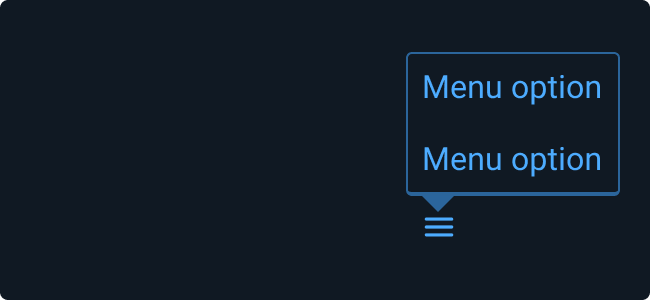
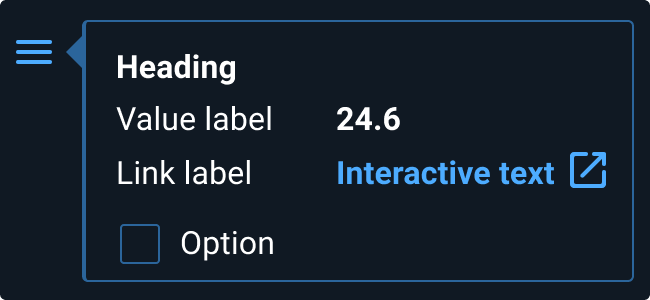
create pop-up-menu and pop-up distinct pages and update conent
* update pop up page with relevant content

* redirect shift

* typo

* and one more

* update split pages on hold

* merge main

* add compliance stuff - why isn't storybook showing

* add pop upp and menu to site

* typo fix

diff --git a/src/pages/components/pop-up-menu.md b/src/pages/components/pop-up-menu.md
@@ -1,41 +1,33 @@
 ---
-title: Pop Up
+title: Pop Up Menu
 layout: project:layouts/component-docs/component-docs-layout.astro
-storybook: components-pop-up--default-story
-height: 220px
-git: rux-pop-up
+storybook: components-pop-up-menu--default-story
+height: 250px
+git: rux-pop-up-menu
 ---
 
 # Pop Up Menu
 
 ::storybook-demo
+ 
+A Pop Up Menu provides users with an ordered list of available actions for a interactable item, contained within a Pop Up container component.
 
-A Pop Up Menu provides users with a quick way to access common actions for a highlighted item.
+## Appearance and Behavior
 
-## Rules of Thumb
+While rules governing the Pop Up Menu appearance and behavior generally mirror that of the generic Pop Up component, the width of its container will automatically adjust based on the width of the text content, which may be comprised of anything from a single menu item to a list of multiple items (up to a limit of 25 items).
+
+## Rules of Thumb for Pop Up Menus
 
 - Select menu item names that are accurate and informative allowing user to predict the result of choosing an item.
 - Use separators to indicate groups of related items.
 - Use an ellipsis (…) to indicate to users that further action is required to complete the command. The ellipsis character means that a Dialog Box or a separate window will open allowing users to make additional choices or supply additional information to complete the action.
 - If you use more than one word in a menu item name, be sure to use sentence case capitalization.
 - Choose menu names that are short and precise. Do not use an ellipsis to truncate overflow text as this indicates that further action or another dialog or window is required before the action takes place.
-- Avoid combining actions and attributes in the same group. Users tend to view choosing an action differently from choosing an attribute.
+- Avoid combining actions and attributes in the same group. Users tend to view choosing an action (e.g. “Delete item”) differently from choosing an attribute (e.g. “Rating”).
 
 ## Examples
-
 :::two-col
-![Do: Position Pop Up Menus to avoid obscuring vital screen elements like Classification Banners](/img/components/popup-do-1.png "Do: Position Pop Up Menus to avoid obscuring vital screen elements like Classification Banners")
-
-![Don’t: Cover vital screen elements like Classification Markings](/img/components/popup-dont-1.png "Cover vital screen elements like Classification Markings")
-
-![Do: Position a Pop Up Menu so it stays within the edges of the frame](/img/components/popup-do-2.png "Position a Pop Up Menu so it stays within the edges of the frame")
-
-![Don’t: Position Pop Up Menu so it exceeds the limits of the frame](/img/components/popup-dont-2.png "Don’t: Position Pop Up Menu so it exceeds the limits of the frame")
-
-![Do: Originate Pop Up Menu from obvious, interactable triggers](/img/components/popup-do-3.png "Do: Originate Pop Up Menu from obvious, interactable triggers")
-
-![Don’t: Trigger Pop Up Menu from items that don’t appear to be interactable](/img/components/popup-dont-3.png "Don’t: Trigger Pop Up Menu from items that don’t appear to be interactable")
-
 ![Do: Use ellipses to indicate when further action will be required for that item](/img/components/popup-do-4.png "Do: Use ellipses to indicate when further action will be required for that item")
 
-![Don’t: Use long menu item names that cause the the text to wrap](/img/components/popup-dont-4.png "Don’t: Use long menu item names that cause the the text to wrap")
+![Don’t: Use long menu item names that cause the the text to wrap](/img/components/popup-dont-4.png "Don't: Use long menu item names that cause the the text to wrap")
+:::

diff --git a/src/pages/components/pop-up.md b/src/pages/components/pop-up.md
@@ -1,0 +1,47 @@
+---
+title: Pop Up
+layout: project:layouts/component-docs/component-docs-layout.astro
+storybook: components-pop-up--default-story
+height: 250px
+git: rux-pop-up
+---
+
+# Pop Up
+
+::storybook-demo
+
+Typically invoked upon clicking an identifiable interactive element, a Pop Up contains a curated set of common actions, display controls, rich data, or imagery associated with the interactive element.
+
+
+## Appearance and Behavior
+
+Usually hidden on load, a Pop Up is invoked by clicking an interactable element with a defined target area. To close a Pop Up, the user may click outside its bounds, click a dedicated close button, or select an option within.
+
+Anatomically, a Pop Up is comprised of a content container with an arrow protruding from its edge that always points at the item from which it was invoked. Depending on a variety of factors – such as the size of the Pop Up itself, the size of the display, and scrolled position of the window – the arrow’s location along the Pop Up’s edge is variable. The width of the Pop will be pre-defined and specific to its content.
+
+In terms of placement screen, the entire Pop Up must always be visible and never exceed the window frame. Furthermore, it must never obscure other screen items that require persistent visibility (such as Classification Banners or Application States).
+
+All interactable items (e.g. menu items, links, buttons, checkboxes) appearing within a Pop Up are displayed using the appropriate Astro color representing the unselected state. Color changes corresponding to hover, focus, and select actions all apply. Disabled items are indicated by reduced opacity.
+
+## Rules of Thumb
+
+- Avoid loading the container with too many interactions or data. 
+- Aim to provide the user with a quick, easy to operate mechanism for executing focused, contextual actions.
+- Keep explanatory text to a minimum. If more extensive instruction is required, consider providing a link to a dedicated help page. 
+- Use when you need to display information with formatting that a tooltip cannot provide. 
+
+## Examples
+
+:::two-col
+![Do: Position Pop Ups to avoid obscuring vital screen elements like classification banners](/img/components/popup-do-1.png "Do: Position Pop Ups to avoid obscuring vital screen elements like classification banners")
+
+![Don’t: Cover vital screen elements like classification markings](/img/components/popup-dont-1.png "Don't: Cover vital screen elements like classification markings")
+
+![Do: Position a Pop Up so it stays within the edges of the frame](/img/components/popup-do-2.png "Do: Position a Pop Up so it stays within the edges of the frame")
+
+![Don’t: Position Pop Up so it exceeds the limits of the frame](/img/components/popup-dont-2.png "Don’t: Position Pop Up so it exceeds the limits of the frame")
+
+![Do: Originate Pop Up from obvious, interactable triggers](/img/components/popup-do-3.png "Do: Originate Pop Up from obvious, interactable triggers")
+
+![Don’t: Trigger Pop Up from items that don’t appear to be interactable](/img/components/popup-dont-3.png "Don’t: Trigger Pop Up from items that don’t appear to be interactable")
+:::
